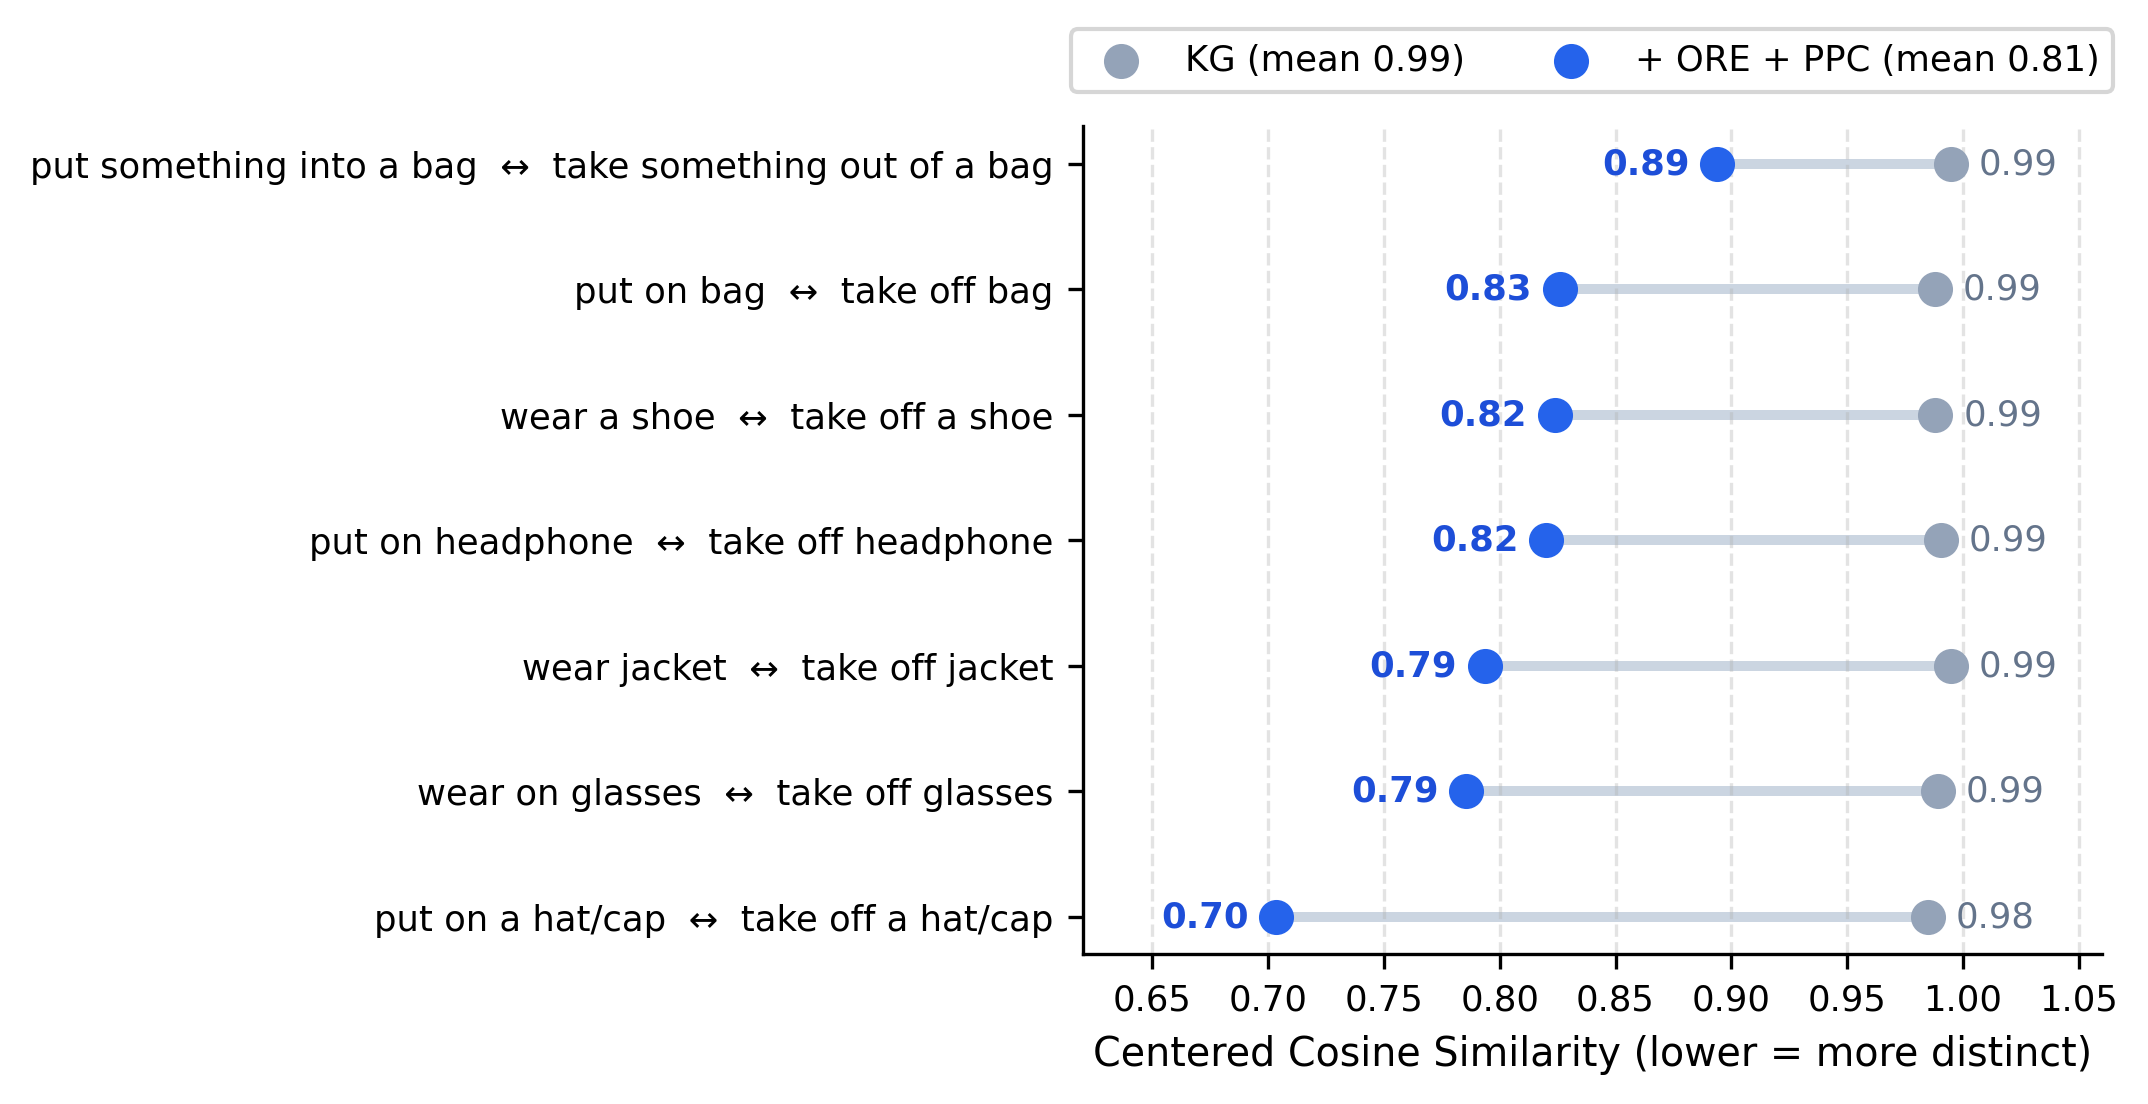
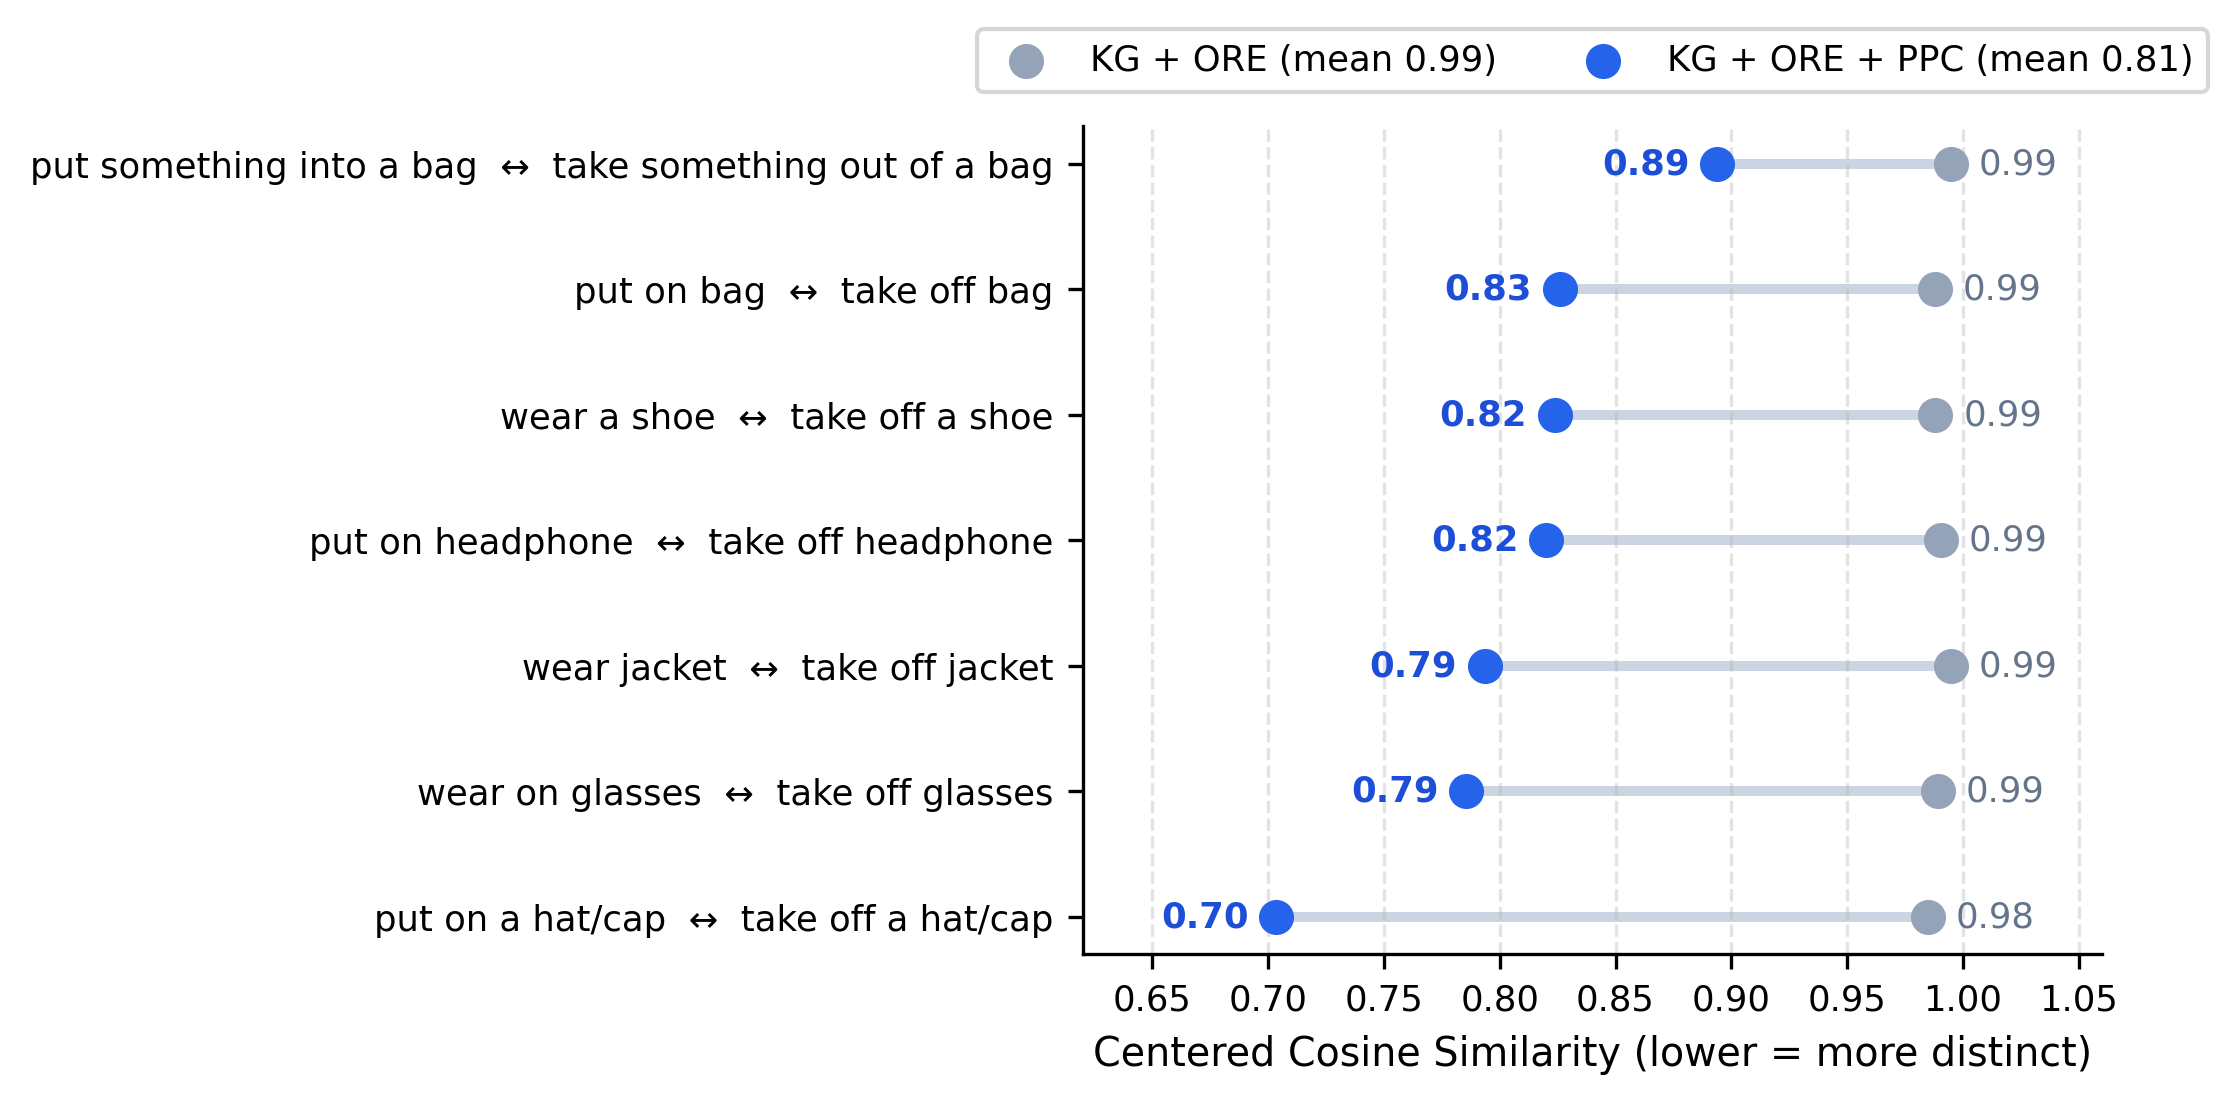
up

diff --git a/zeroshot/Flora/plot_extra.py b/zeroshot/Flora/plot_extra.py
@@ -120,21 +120,18 @@ def plot_beta_curve(fig_dir):
     betas = np.array([0.1, 0.3, 0.5, 1.0])
     d_48 = np.array([63.7, 63.7, 62.0, 58.7]) - 62.1
     d_110 = np.array([78.9, 80.2, 81.6, 79.8]) - 77.6
-    d_mean = np.array([71.3, 71.9, 71.8, 69.3]) - 69.9
 
     fig, ax = plt.subplots(figsize=(5.8, 3.8))
     ax.axhspan(-4.5, 0.0, color='#fee2e2', alpha=0.35, zorder=0)
     ax.axhline(0.0, color='#475569', linestyle='--', linewidth=1.2, zorder=1, label='No KG baseline (0.0%)')
 
     ax.plot(betas, d_110, 's-', color='#dc2626', linewidth=2.0, label='NTU-120 110/10', zorder=3)
-    ax.plot(betas, d_mean, '^-', color='#0f172a', linewidth=2.2, label='Mean (both splits)', zorder=4)
     ax.plot(betas, d_48, 'o-', color='#2563eb', linewidth=2.0, label='NTU-60 48/12', zorder=3)
 
-    ax.axvline(0.3, color='#059669', linestyle='--', linewidth=1.3, zorder=2, label=r'Fixed $\beta = 0.3$ (peak +2.0%)')
-    ax.scatter([0.3], [d_mean[1]], color='#059669', s=80, zorder=5)
+    ax.axvline(0.3, color='#059669', linestyle='--', linewidth=1.3, zorder=2, label=r'Fixed $\beta = 0.3$')
 
     ax.text(0.5, d_110[2] + 0.25, f'+{d_110[2]:.1f}%', ha='center', fontsize=8, color='#dc2626', fontweight='bold')
-    ax.text(0.32, d_mean[1] + 0.25, f'+{d_mean[1]:.1f}%', ha='left', fontsize=8, color='#059669', fontweight='bold')
+    ax.text(0.3, d_48[1] + 0.25, f'+{d_48[1]:.1f}%', ha='center', fontsize=8, color='#2563eb', fontweight='bold')
     ax.text(1.0, d_48[3] - 0.55, f'{d_48[3]:.1f}%', ha='center', fontsize=8, color='#2563eb', fontweight='bold')
 
     ax.set_xticks(betas)
